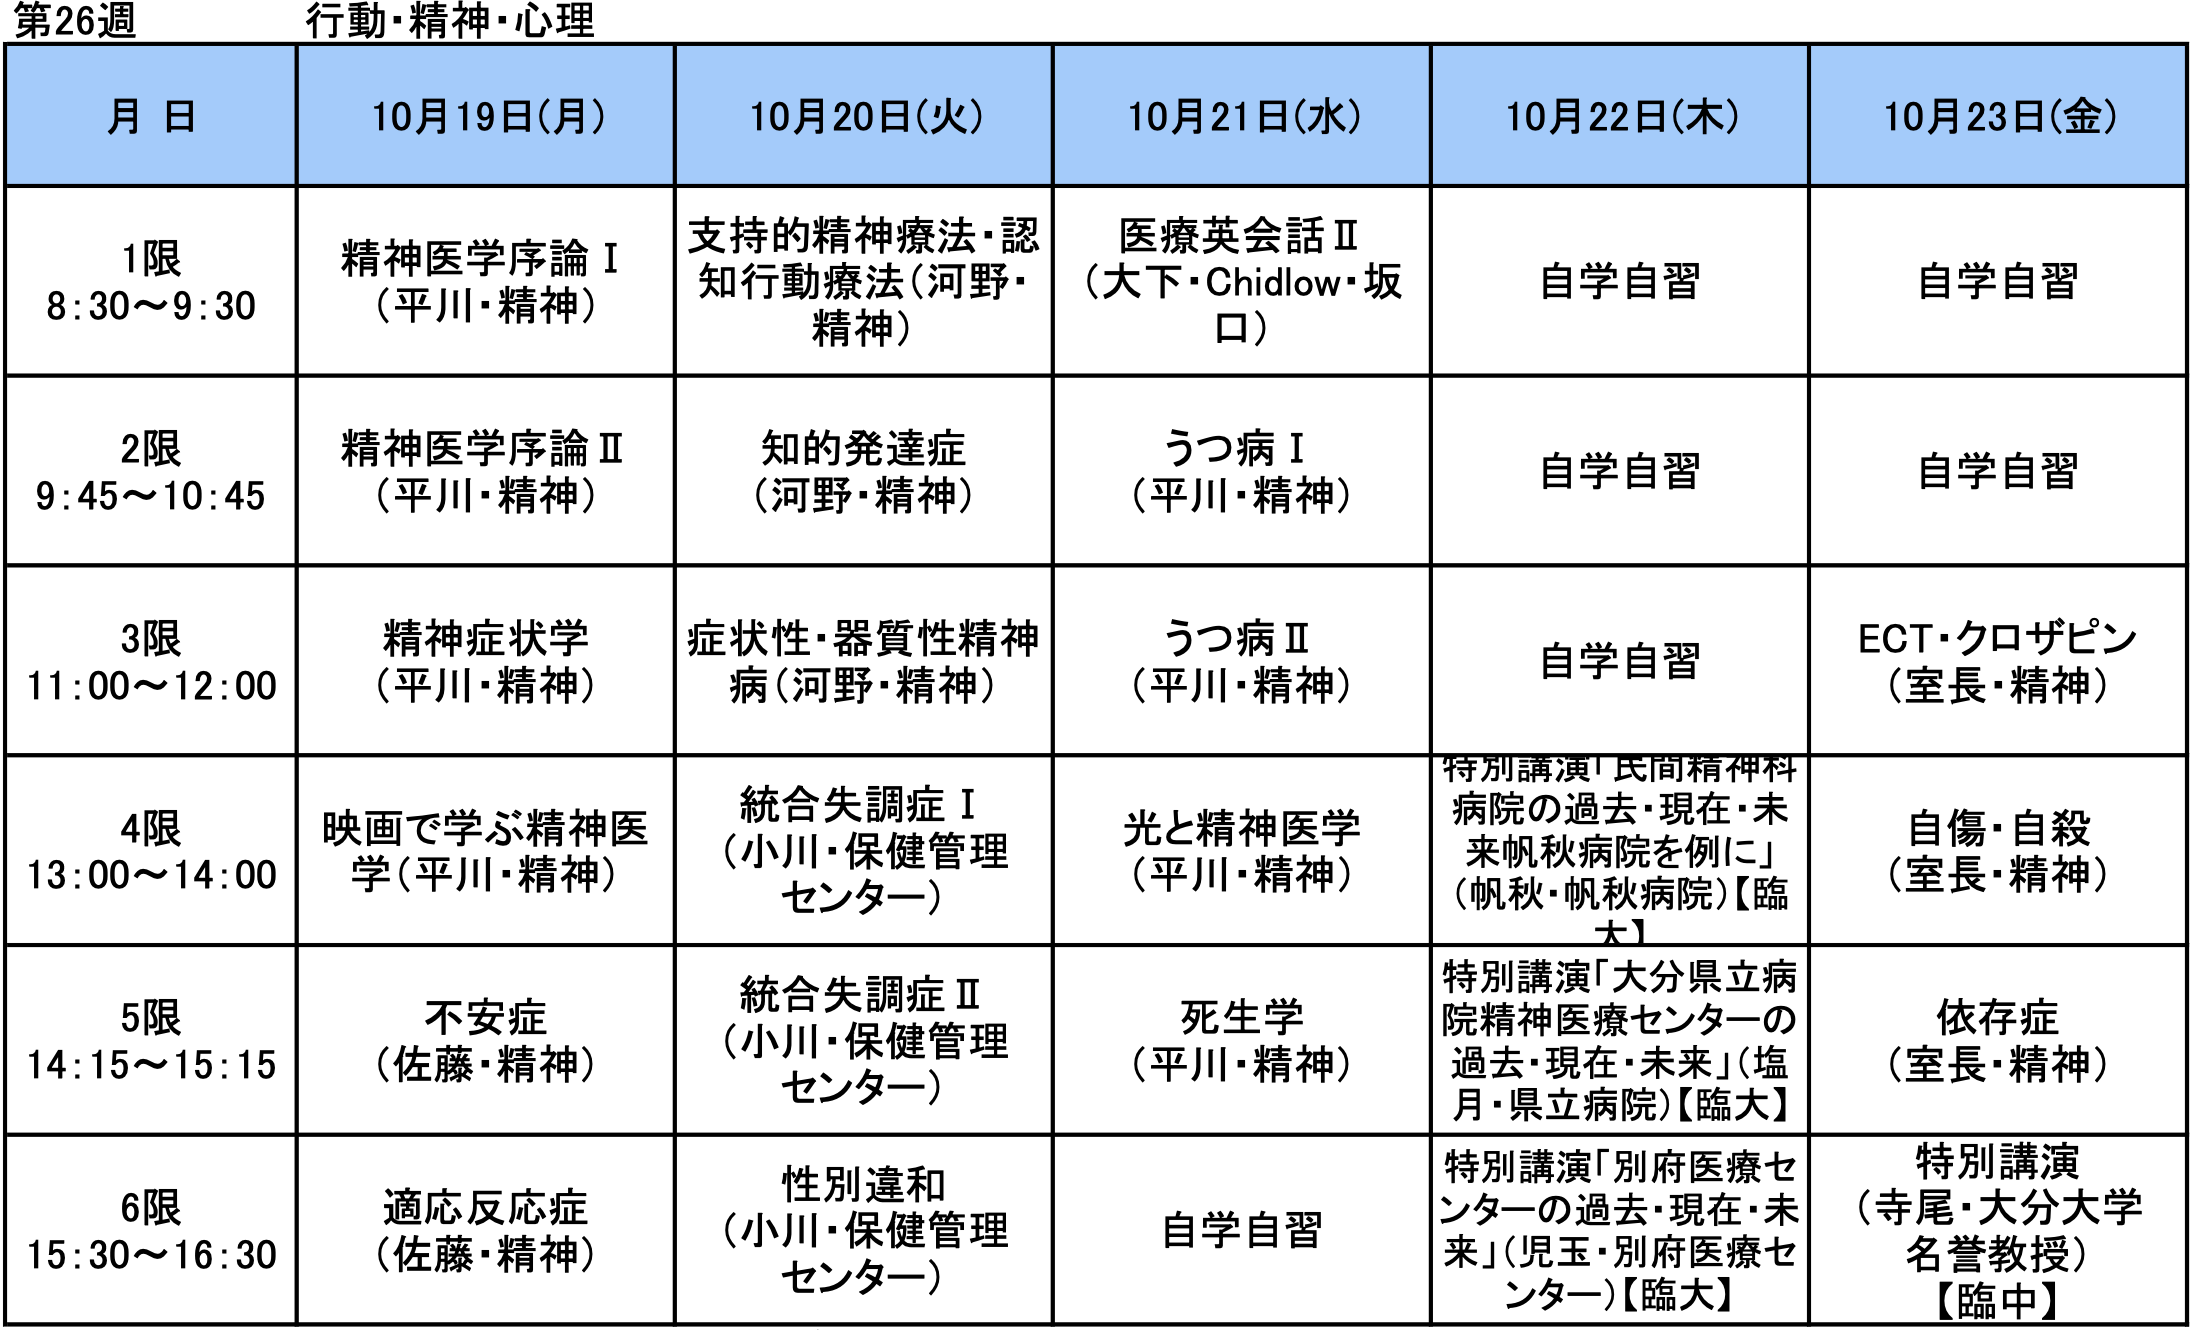
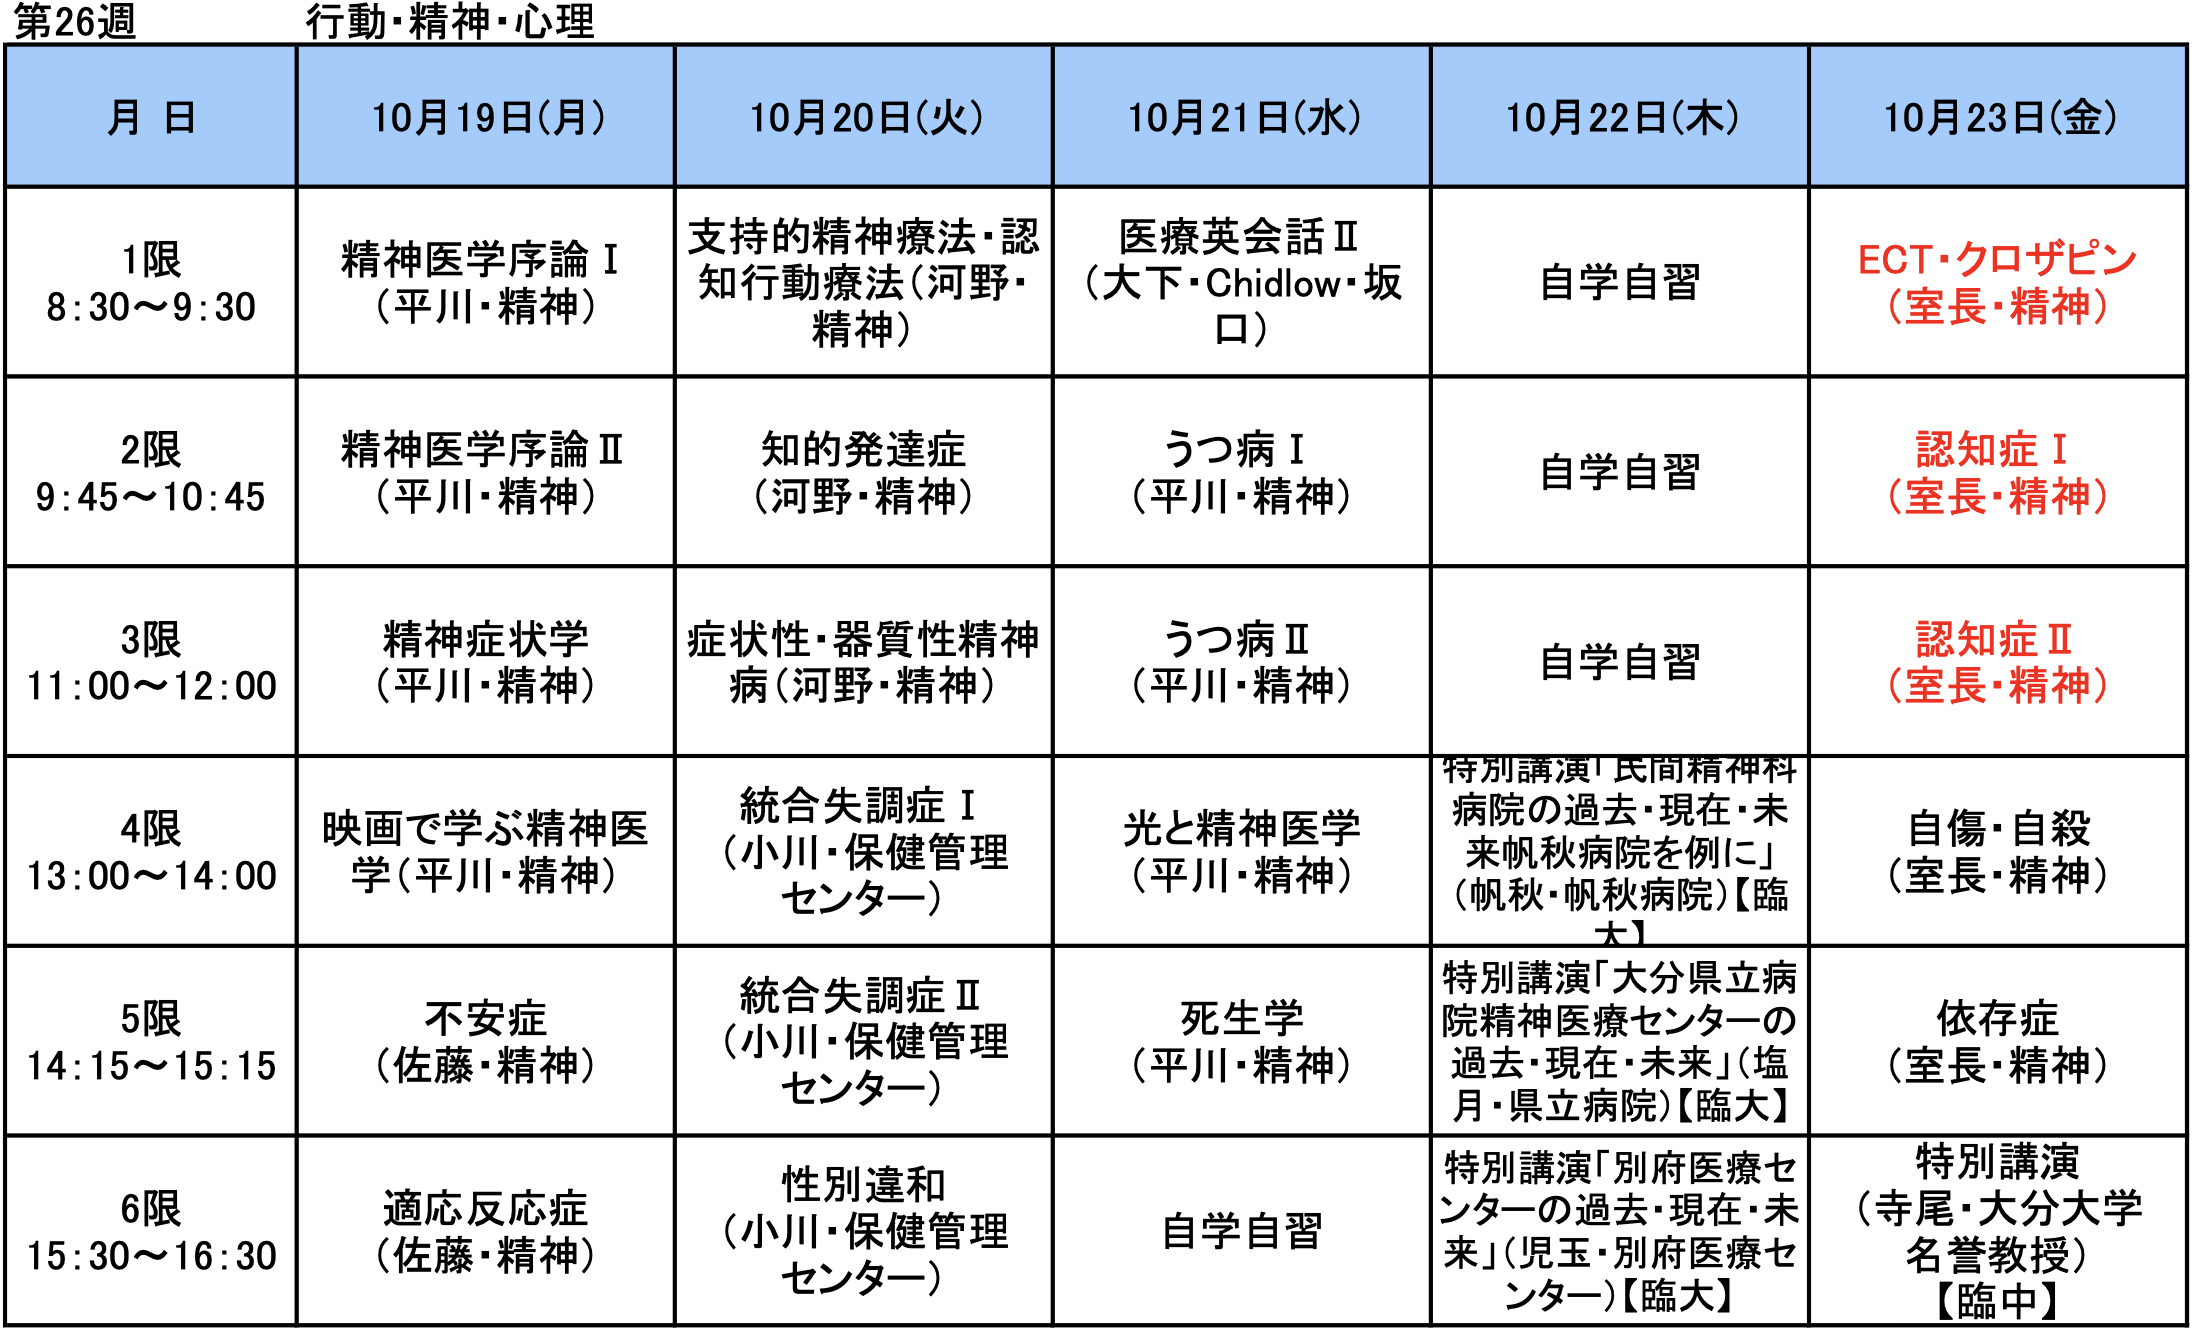
時間割変更 (一部)

diff --git a/25/index.html b/25/index.html
@@ -30,7 +30,7 @@ table th, table td {
         </h1>
     </header>
     <main class="page-content">
-    <h3 class="top-object">今週の時間割（9月25日更新）</h3>
+    <h3 class="top-object">今週の時間割（10月22日更新）</h3>
     <div id="nav">
         <button id="prev">&lt;前の週</button>
         <button id="next">次の週&gt;</button>
@@ -176,7 +176,7 @@ table th, table td {
 
 
     <script>
-        const IMG_VERSION = "2026-09-25";
+        const IMG_VERSION = "2026-10-22";
         const today = new Date();
         let offset = 0;
 
